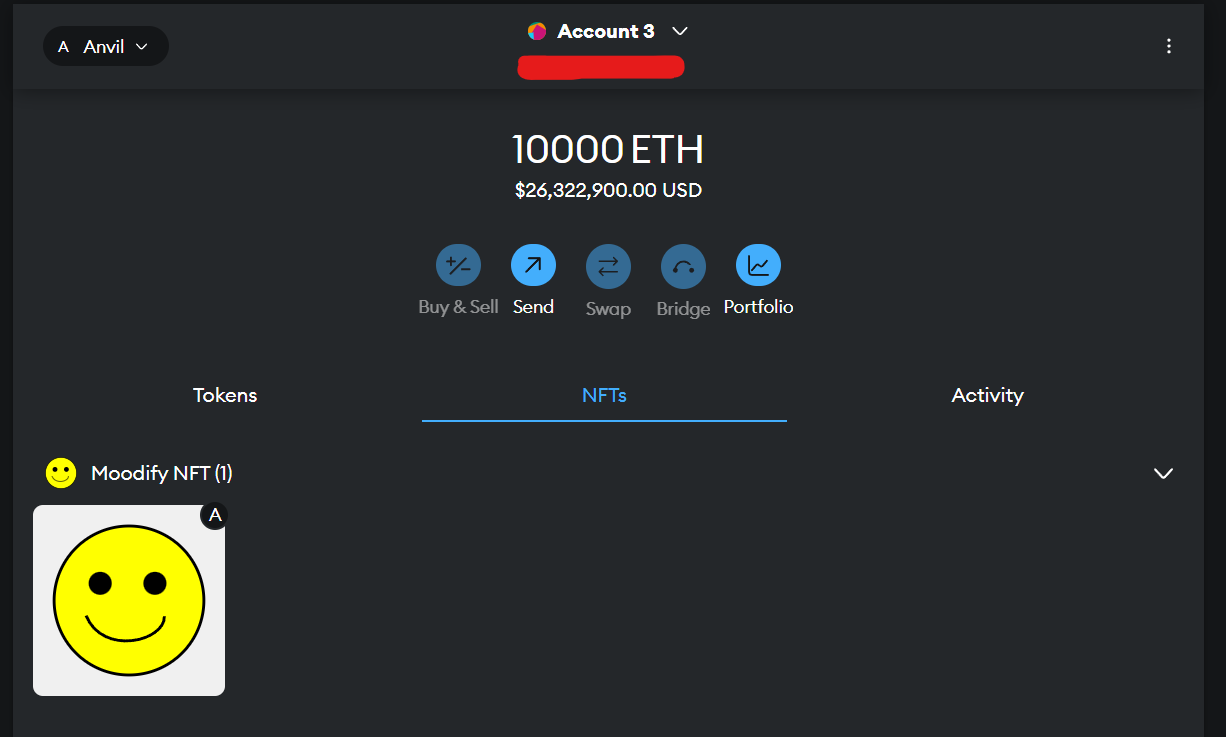
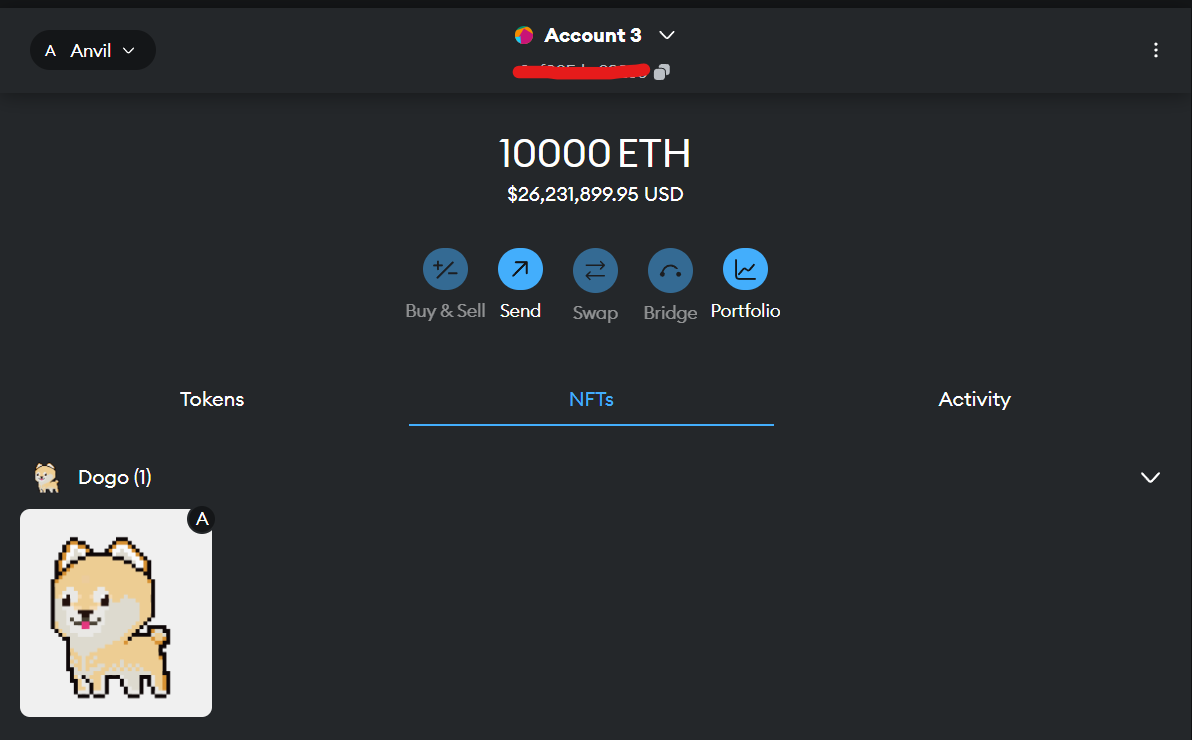
Finish implmenting minting and switching tokens

diff --git a/README.md b/README.md
@@ -59,11 +59,14 @@ Review the <a href="./Makefile">Makefile</a> to easily interact with the project
 <p>After you connected to Metamask with account from Anvil and set the target network to Anvil you will be able to mint and switch tokens.</p>
 <p>To mint or switch just be sure to execute the scripts properly and unable the NFT Media on Metamask.</p>
 
+<p>Here is a freshly minted Dogo NFT</p>
+<img src="./image-1.png"></img>
+
 <p>Here is a Happy NFT.</p>
-![alt text](image-1.png)
+<img src="./image-2.png"></img>
 
 <p>After Switching the NFT you can import it again.</p>
-![alt text](image-2.png)
+<img src="./image-3.png"></img>
 
 ### Help
 
